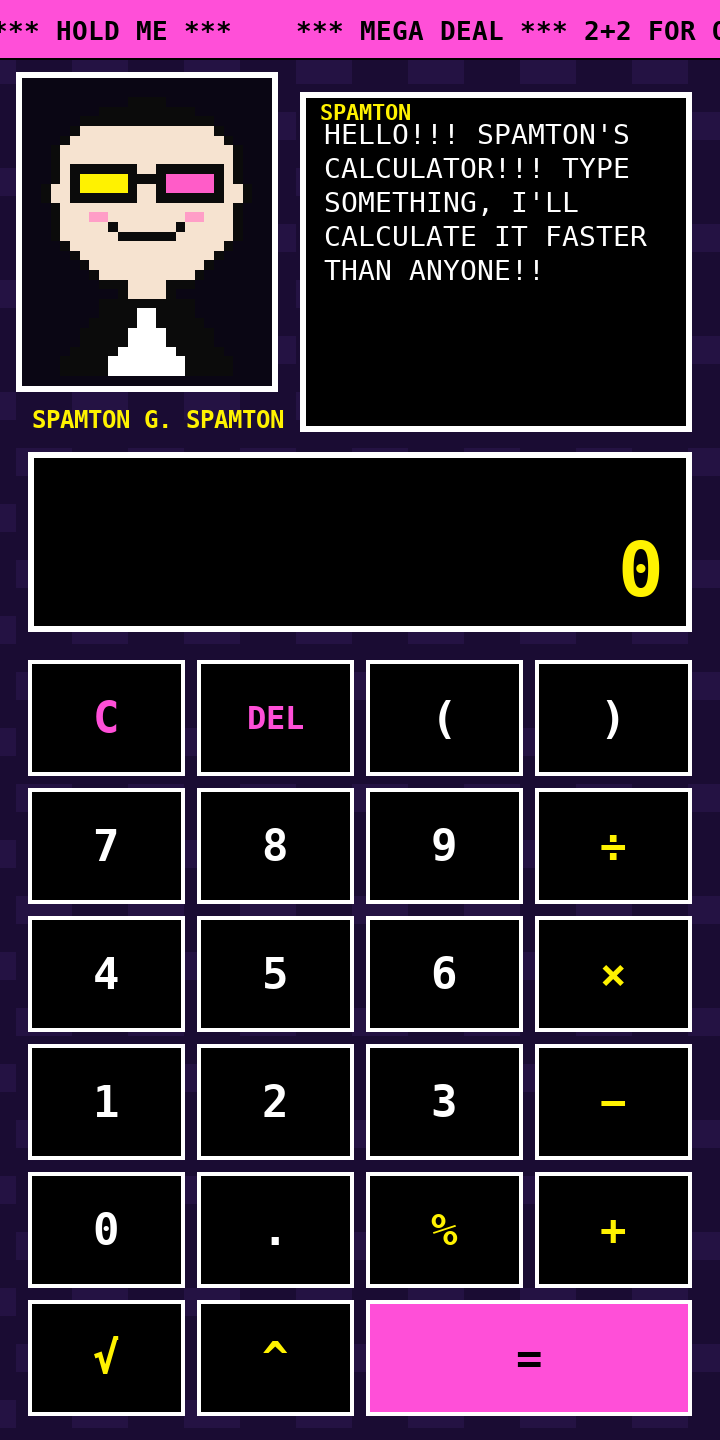
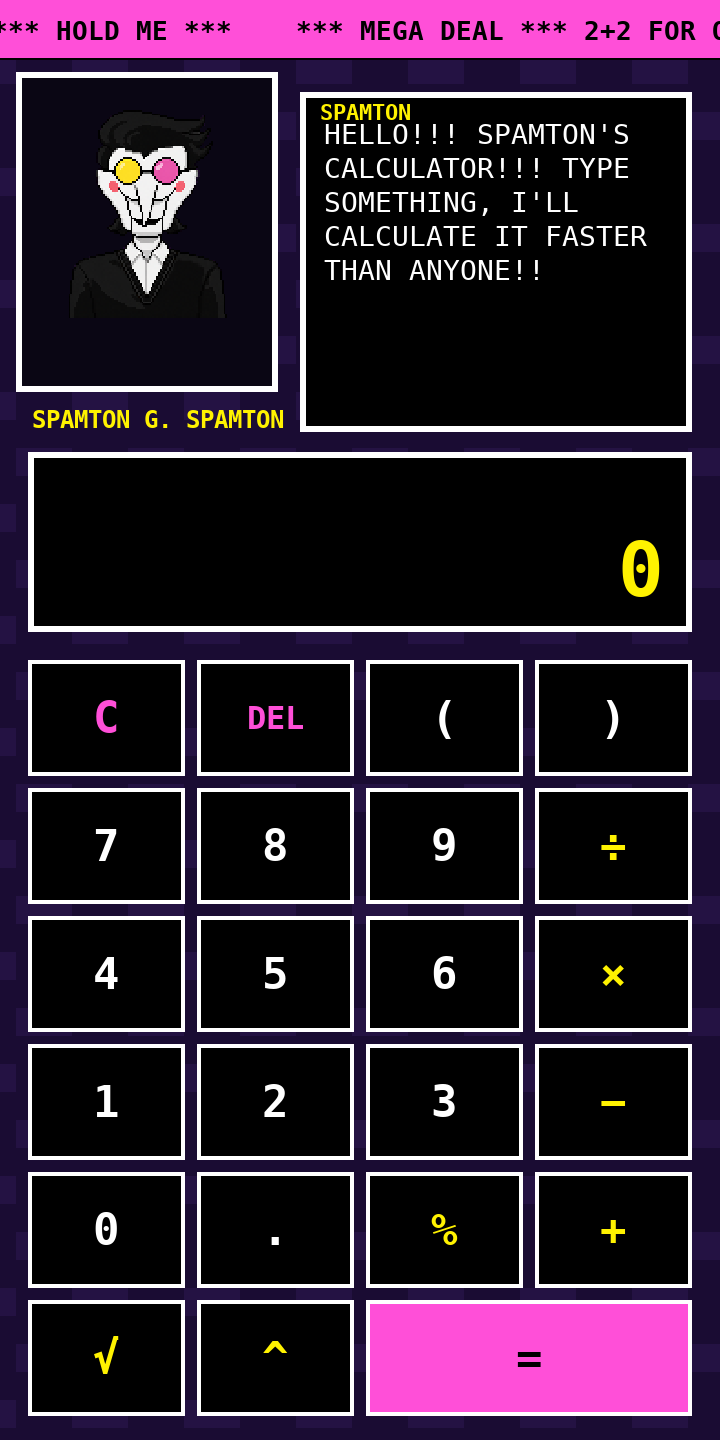
Спамтон: портрет из сгенерированного изображения (фон убран, 126 px), процедурный спрайт как запасной

Changed region(s): [[0.0611, 0.0625, 0.3361, 0.2812]]

diff --git a/spamton-calc/test/stubs/android/graphics/Canvas.java b/spamton-calc/test/stubs/android/graphics/Canvas.java
@@ -1,11 +1,16 @@
 package android.graphics;
 
+import java.util.ArrayDeque;
+
 /**
  * Заглушка Canvas для JVM-харнесса (в APK не попадает).
- * Не рисует сама: записывает команды в ops-журнал, а картинку делает scripts/render_ops.py.
+ * Ведёт матрицу (translate/scale), пишет команды в ops-журнал в абсолютных координатах;
+ * картинку строит scripts/render_ops.py.
  */
 public class Canvas {
     private final StringBuilder ops = new StringBuilder();
+    private final ArrayDeque<float[]> stack = new ArrayDeque<>();
+    private float tx, ty, sx = 1f, sy = 1f;
 
     public String ops() { return ops.toString(); }
 
@@ -13,27 +18,49 @@ public class Canvas {
         return String.format("%08X", argb);
     }
 
+    public int save() {
+        stack.push(new float[] {tx, ty, sx, sy});
+        ops.append("S\n");
+        return stack.size();
+    }
+
+    public void restore() {
+        if (!stack.isEmpty()) {
+            float[] m = stack.pop();
+            tx = m[0]; ty = m[1]; sx = m[2]; sy = m[3];
+        }
+        ops.append("E\n");
+    }
+
+    public void translate(float dx, float dy) {
+        tx += dx * sx;
+        ty += dy * sy;
+    }
+
+    public void scale(float a, float b) {
+        sx *= a;
+        sy *= b;
+    }
+
     public void drawRect(float l, float t, float r, float b, Paint p) {
-        ops.append("R ").append(l).append(' ').append(t).append(' ').append(r).append(' ').append(b)
+        ops.append("R ").append(tx + l * sx).append(' ').append(ty + t * sy).append(' ')
+           .append(tx + r * sx).append(' ').append(ty + b * sy)
            .append(' ').append(hex(p.color)).append('\n');
     }
 
     public void drawText(String s, float x, float y, Paint p) {
-        ops.append("T ").append(x).append(' ').append(y).append(' ').append(p.textSize)
-           .append(' ').append(p.bold ? 1 : 0).append(' ').append(hex(p.color)).append(' ')
+        ops.append("T ").append(tx + x * sx).append(' ').append(ty + y * sy).append(' ')
+           .append(p.textSize).append(' ').append(p.bold ? 1 : 0).append(' ').append(hex(p.color)).append(' ')
            .append(s.replace("\n", " ").replace("\t", " ")).append('\n');
     }
 
-    public int save() {
-        ops.append("S\n");
-        return 0;
+    public void drawBitmap(Bitmap bm, float left, float top, Paint p) {
+        ops.append("I ").append(bm.path).append(' ').append(tx + left * sx).append(' ').append(ty + top * sy)
+           .append(' ').append(bm.getWidth() * sx).append(' ').append(bm.getHeight() * sy).append('\n');
     }
 
     public void clipRect(float l, float t, float r, float b) {
-        ops.append("C ").append(l).append(' ').append(t).append(' ').append(r).append(' ').append(b).append('\n');
-    }
-
-    public void restore() {
-        ops.append("E\n");
+        ops.append("C ").append(tx + l * sx).append(' ').append(ty + t * sy).append(' ')
+           .append(tx + r * sx).append(' ').append(ty + b * sy).append('\n');
     }
 }

diff --git a/spamton-calc/src/com/example/spamton/SpamtonView.java b/spamton-calc/src/com/example/spamton/SpamtonView.java
@@ -1,6 +1,7 @@
 package com.example.spamton;
 
 import android.content.Context;
+import android.graphics.Bitmap;
 import android.graphics.Canvas;
 import android.graphics.Paint;
 import android.graphics.Typeface;
@@ -39,6 +40,8 @@ public final class SpamtonView extends View {
     private final Store store;
     private final Random rnd;
     private final Paint paint = new Paint();
+    /** Портрет Спамтона (PNG из ресурсов). Если null — рисуется процедурный пиксельный спрайт. */
+    private Bitmap portrait;
 
     private final Spamton spamton;
     private Battle battle;
@@ -628,7 +631,7 @@ public final class SpamtonView extends View {
 
         drawFrame(c, spriteBox.left - 8 * u, spriteBox.top - 8 * u,
                 spriteBox.width() + 16 * u, spriteBox.height() + 16 * u, INK, WHITE, 3 * u);
-        SpamtonSprite.draw(c, spriteBox.left, spriteBox.top, spriteCell, paint);
+        drawPortrait(c, spriteBox.left, spriteBox.top, spriteCell, spriteBox.width());
         if (spamton.isAlly()) {
             drawTag(c, spriteBox.left, spriteBox.bottom + 26 * u, "VERIFIED ALLY", GREEN);
         } else {
@@ -735,7 +738,7 @@ public final class SpamtonView extends View {
         // Спрайт и полосы HP.
         float cell = 3.4f * u;
         float sx = 22 * u, sy = 24 * u;
-        SpamtonSprite.draw(c, sx, sy, cell, paint);
+        drawPortrait(c, sx, sy, cell, SpamtonSprite.COLS * cell);
         int sHp = battle != null ? battle.spamtonHp() : 0;
         int pHp = battle != null ? battle.playerHp() : 0;
         drawHpBar(c, hpBoxA, "SPAMTON", sHp, Battle.SPAMTON_MAX_HP, YELLOW);
@@ -814,6 +817,27 @@ public final class SpamtonView extends View {
         c.drawRect(box.left, barTop, box.left + box.width() * frac, barTop + barH, paint);
         drawText(c, value + "/" + max, box.right - 52 * u, barTop + barH - 2 * u, 10 * u, BLACK, true);
     }
+
+    /** Портрет масштабируется до ширины width; без портрета — процедурный спрайт с клеткой cell. */
+    private void drawPortrait(Canvas c, float x, float y, float cell, float width) {
+        if (portrait == null) {
+            SpamtonSprite.draw(c, x, y, cell, paint);
+            return;
+        }
+        float s = width / portrait.getWidth();
+        c.save();
+        c.translate(x, y);
+        c.scale(s, s);
+        c.drawBitmap(portrait, 0, 0, bitmapPaint);
+        c.restore();
+    }
+
+    /** Задаёт портрет (вызывается из MainActivity после загрузки ресурса). */
+    public void setPortrait(Bitmap bitmap) {
+        portrait = bitmap;
+    }
+
+    private final Paint bitmapPaint = new Paint();
 
     private void drawTag(Canvas c, float x, float y, String text, int color) {
         drawText(c, text, x, y, 12 * u, color, true);

diff --git a/spamton-calc/scripts/render_ops.py b/spamton-calc/scripts/render_ops.py
@@ -31,6 +31,9 @@ def rgb(argb):
     return ((v >> 16) & 255, (v >> 8) & 255, v & 255)
 
 
+BASE = os.path.join(os.path.dirname(os.path.abspath(__file__)), "..")
+
+
 def render(ops_path, png_path):
     img = Image.new("RGB", (W, H), (0, 0, 0))
     draw = ImageDraw.Draw(img)
@@ -69,6 +72,12 @@ def render(ops_path, png_path):
                     ImageDraw.Draw(mask).text((x, y), text, font=fnt, fill=255, anchor="ls")
                     mask = Image.composite(mask, Image.new("L", (W, H), 0), _clip_mask(clip))
                     img.paste(layer, (0, 0), mask)
+            elif kind == "I":
+                path, x, y, w, h = rest.split()
+                src_path = os.path.join(BASE, path)
+                pic = Image.open(src_path).convert("RGBA")
+                pic = pic.resize((max(1, round(float(w))), max(1, round(float(h)))), Image.NEAREST)
+                img.paste(pic, (round(float(x)), round(float(y))), pic)
             elif kind == "C":
                 clip = tuple(float(v) for v in rest.split())
             elif kind == "S":

diff --git a/spamton-calc/test/stubs/android/graphics/Bitmap.java b/spamton-calc/test/stubs/android/graphics/Bitmap.java
@@ -1,0 +1,16 @@
+package android.graphics;
+
+/** Заглушка Bitmap для JVM-харнесса: только путь к файлу и размер (картинку рисует render_ops.py). */
+public final class Bitmap {
+    final String path;
+    final int width, height;
+
+    public Bitmap(String path, int width, int height) {
+        this.path = path;
+        this.width = width;
+        this.height = height;
+    }
+
+    public int getWidth() { return width; }
+    public int getHeight() { return height; }
+}

diff --git a/spamton-calc/test/harness/com/example/spamton/Env.java b/spamton-calc/test/harness/com/example/spamton/Env.java
@@ -41,6 +41,8 @@ final class Env {
         view = new SpamtonView(new Context(), sounds, store, new Random(seed));
         view.layout(0, 0, W, H);
         view.onSizeChanged(W, H, 0, 0);
+        // Тот же портрет, что грузит MainActivity из res/drawable-nodpi/spamton.png.
+        view.setPortrait(new android.graphics.Bitmap("res/drawable-nodpi/spamton.png", 126, 126));
     }
 
     /** Журнал команд рисования текущего кадра (см. scripts/render_ops.py). */

diff --git a/spamton-calc/src/com/example/spamton/MainActivity.java b/spamton-calc/src/com/example/spamton/MainActivity.java
@@ -28,6 +28,7 @@ public final class MainActivity extends Activity {
         };
         sounds = new AndroidSounds(this);
         view = new SpamtonView(this, sounds, store, new Random());
+        view.setPortrait(android.graphics.BitmapFactory.decodeResource(getResources(), R.drawable.spamton));
         setContentView(view);
     }
 

diff --git a/spamton-calc/test/stubs/android/graphics/Paint.java b/spamton-calc/test/stubs/android/graphics/Paint.java
@@ -16,6 +16,7 @@ public class Paint {
     public void setTypeface(Typeface t) { }
     public void setFakeBoldText(boolean b) { bold = b; }
     public void setAntiAlias(boolean b) { }
+    public void setFilterBitmap(boolean b) { }
 
     public float measureText(String s) {
         return s.length() * MONO_ADVANCE * textSize;

diff --git a/spamton-calc/test/stubs/android/graphics/BitmapFactory.java b/spamton-calc/test/stubs/android/graphics/BitmapFactory.java
@@ -1,0 +1,6 @@
+package android.graphics;
+
+/** Заглушка: в харнессе портрет создаётся напрямую, см. Env. */
+public final class BitmapFactory {
+    private BitmapFactory() {}
+}
